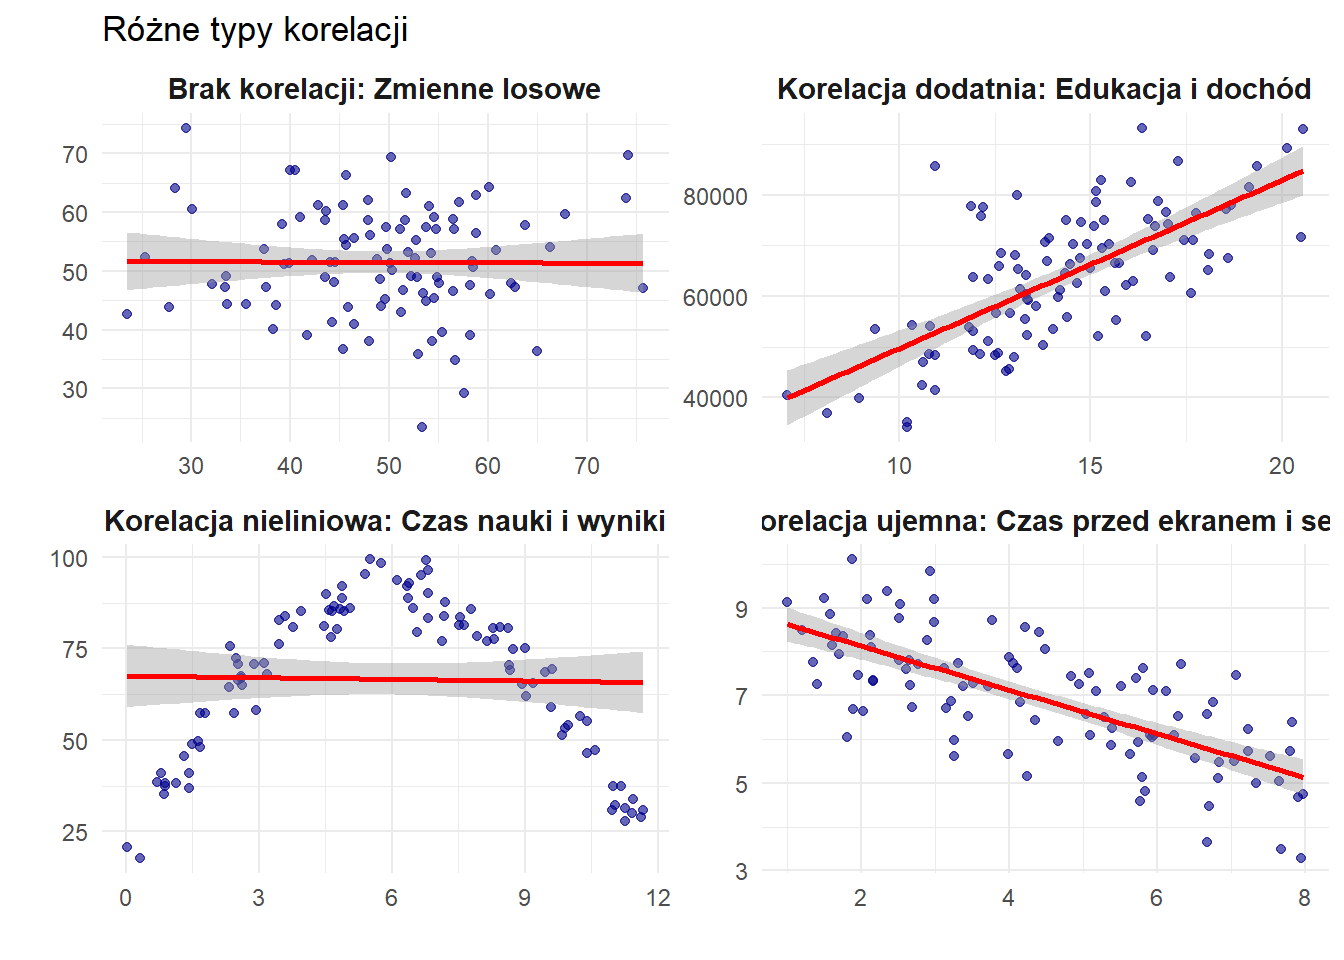
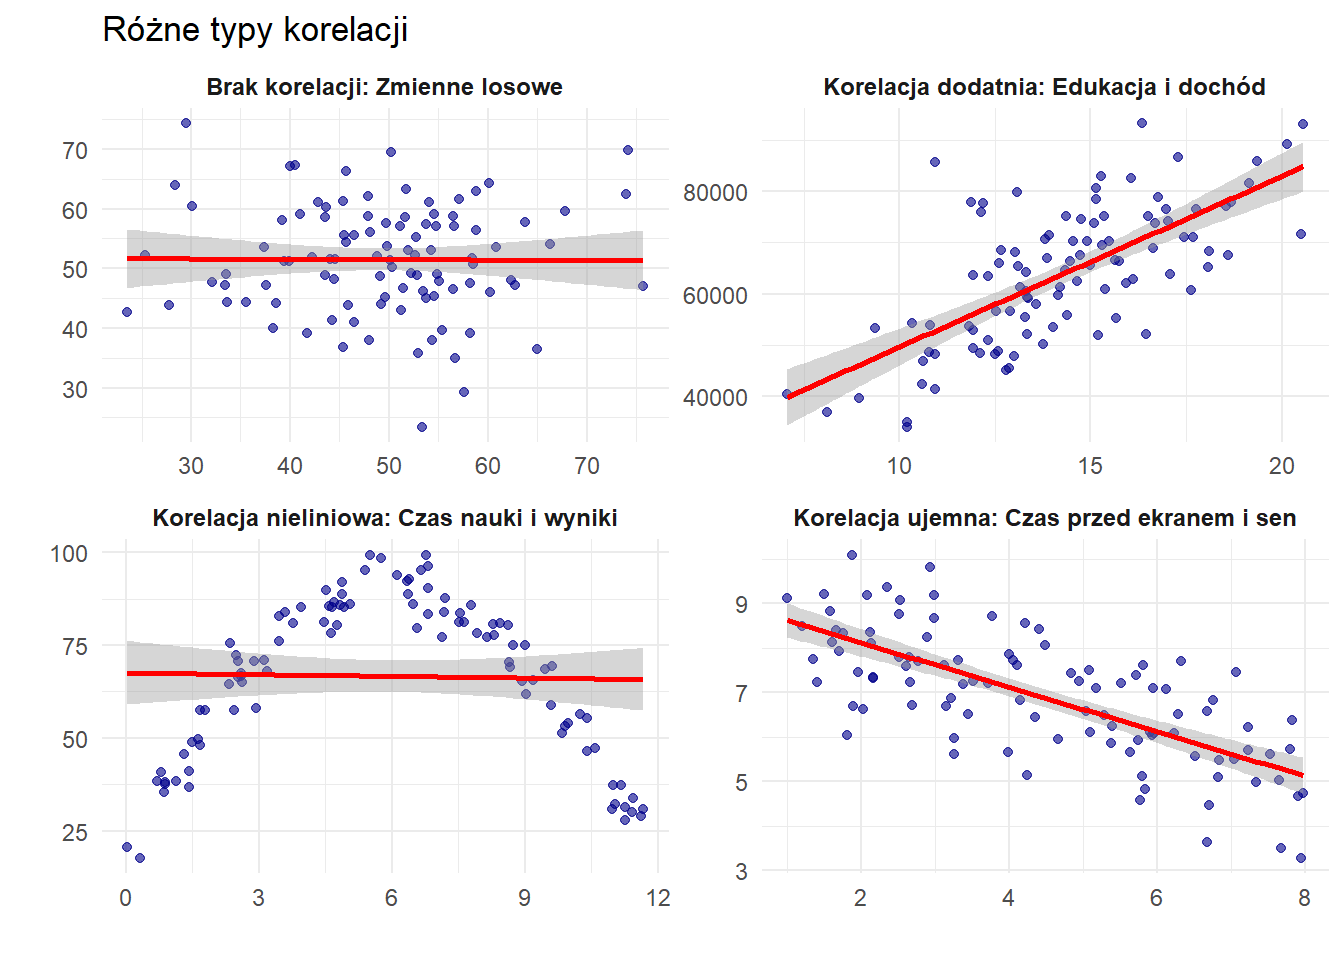
Update rendered book

diff --git a/docs/correg_pl.html b/docs/correg_pl.html
@@ -618,7 +618,7 @@ window.Quarto = {
 <span id="cb1-46"><a href="#cb1-46" aria-hidden="true" tabindex="-1"></a>    <span class="at">y =</span> <span class="st">""</span></span>
 <span id="cb1-47"><a href="#cb1-47" aria-hidden="true" tabindex="-1"></a>  ) <span class="sc">+</span></span>
 <span id="cb1-48"><a href="#cb1-48" aria-hidden="true" tabindex="-1"></a>  <span class="fu">theme_minimal</span>() <span class="sc">+</span></span>
-<span id="cb1-49"><a href="#cb1-49" aria-hidden="true" tabindex="-1"></a>  <span class="fu">theme</span>(<span class="at">strip.text =</span> <span class="fu">element_text</span>(<span class="at">size =</span> <span class="dv">11</span>, <span class="at">face =</span> <span class="st">"bold"</span>))</span></code><button title="Copy to Clipboard" class="code-copy-button"><i class="bi"></i></button></pre></div>
+<span id="cb1-49"><a href="#cb1-49" aria-hidden="true" tabindex="-1"></a>  <span class="fu">theme</span>(<span class="at">strip.text =</span> <span class="fu">element_text</span>(<span class="at">size =</span> <span class="dv">9</span>, <span class="at">face =</span> <span class="st">"bold"</span>))</span></code><button title="Copy to Clipboard" class="code-copy-button"><i class="bi"></i></button></pre></div>
 <div class="cell-output cell-output-stderr">
 <pre><code>`geom_smooth()` using formula = 'y ~ x'</code></pre>
 </div>
@@ -1069,7 +1069,7 @@ Attaching package: 'gridExtra'</code></pre>
 <span id="cb12-33"><a href="#cb12-33" aria-hidden="true" tabindex="-1"></a>  <span class="fu">scale_fill_gradient</span>(<span class="at">name =</span> <span class="st">"Wielkość błędu"</span>, <span class="at">low =</span> <span class="st">"yellow"</span>, <span class="at">high =</span> <span class="st">"red"</span>) <span class="sc">+</span></span>
 <span id="cb12-34"><a href="#cb12-34" aria-hidden="true" tabindex="-1"></a>  <span class="co"># Lepsza anotacja i etykiety</span></span>
 <span id="cb12-35"><a href="#cb12-35" aria-hidden="true" tabindex="-1"></a>  <span class="fu">labs</span>(<span class="at">title =</span> <span class="st">"Wizualizacja Pionowych Odległości (Reszt)"</span>,</span>
-<span id="cb12-36"><a href="#cb12-36" aria-hidden="true" tabindex="-1"></a>       <span class="at">subtitle =</span> <span class="st">"Czerwone obszary pokazują wielkość błędów, które po podniesieniu do kwadratu sumujemy w SSE"</span>,</span>
+<span id="cb12-36"><a href="#cb12-36" aria-hidden="true" tabindex="-1"></a>       <span class="at">subtitle =</span> <span class="st">"Długość kolorowych linii pokazuje wielkość błędów, które po podniesieniu do kwadratu sumujemy w SSE"</span>,</span>
 <span id="cb12-37"><a href="#cb12-37" aria-hidden="true" tabindex="-1"></a>       <span class="at">x =</span> <span class="st">"Zmienna niezależna (X)"</span>,</span>
 <span id="cb12-38"><a href="#cb12-38" aria-hidden="true" tabindex="-1"></a>       <span class="at">y =</span> <span class="st">"Zmienna zależna (Y)"</span>) <span class="sc">+</span></span>
 <span id="cb12-39"><a href="#cb12-39" aria-hidden="true" tabindex="-1"></a>  <span class="fu">annotate</span>(<span class="st">"text"</span>, <span class="at">x =</span> <span class="dv">15</span>, <span class="at">y =</span> <span class="dv">20</span>, </span>

diff --git a/docs/correg_en.html b/docs/correg_en.html
@@ -619,7 +619,7 @@ window.Quarto = {
 <span id="cb1-46"><a href="#cb1-46" aria-hidden="true" tabindex="-1"></a>    <span class="at">y =</span> <span class="st">""</span></span>
 <span id="cb1-47"><a href="#cb1-47" aria-hidden="true" tabindex="-1"></a>  ) <span class="sc">+</span></span>
 <span id="cb1-48"><a href="#cb1-48" aria-hidden="true" tabindex="-1"></a>  <span class="fu">theme_minimal</span>() <span class="sc">+</span></span>
-<span id="cb1-49"><a href="#cb1-49" aria-hidden="true" tabindex="-1"></a>  <span class="fu">theme</span>(<span class="at">strip.text =</span> <span class="fu">element_text</span>(<span class="at">size =</span> <span class="dv">11</span>, <span class="at">face =</span> <span class="st">"bold"</span>))</span></code><button title="Copy to Clipboard" class="code-copy-button"><i class="bi"></i></button></pre></div>
+<span id="cb1-49"><a href="#cb1-49" aria-hidden="true" tabindex="-1"></a>  <span class="fu">theme</span>(<span class="at">strip.text =</span> <span class="fu">element_text</span>(<span class="at">size =</span> <span class="dv">9</span>, <span class="at">face =</span> <span class="st">"bold"</span>))</span></code><button title="Copy to Clipboard" class="code-copy-button"><i class="bi"></i></button></pre></div>
 <div class="cell-output cell-output-stderr">
 <pre><code>`geom_smooth()` using formula = 'y ~ x'</code></pre>
 </div>
